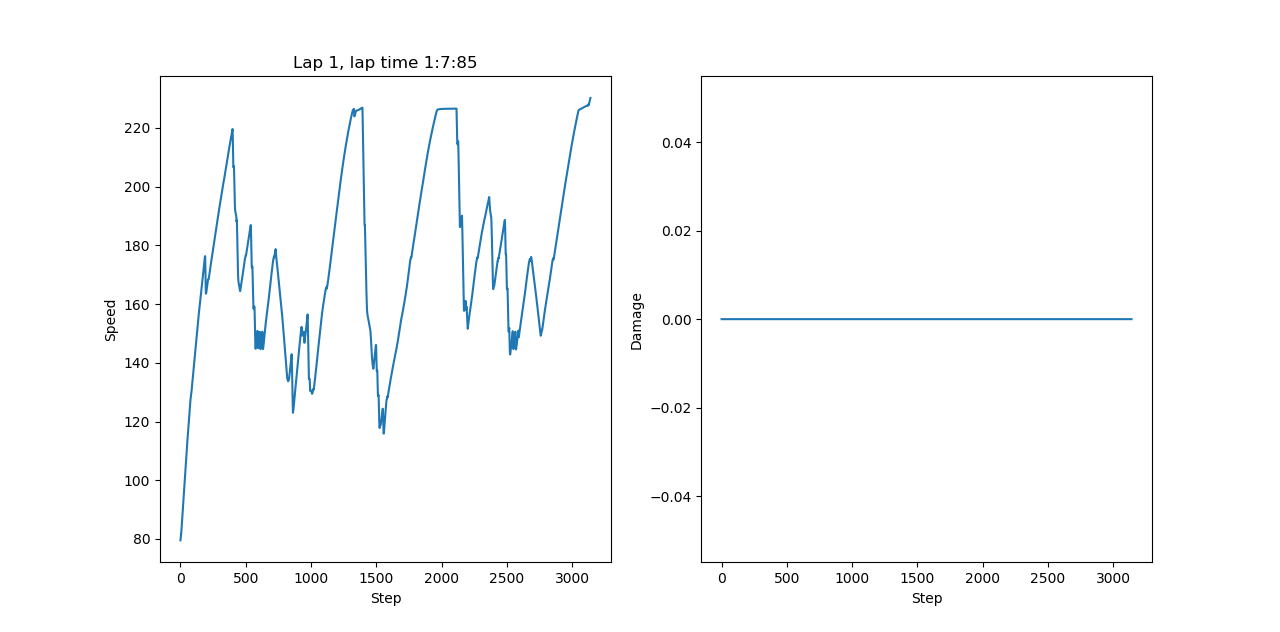
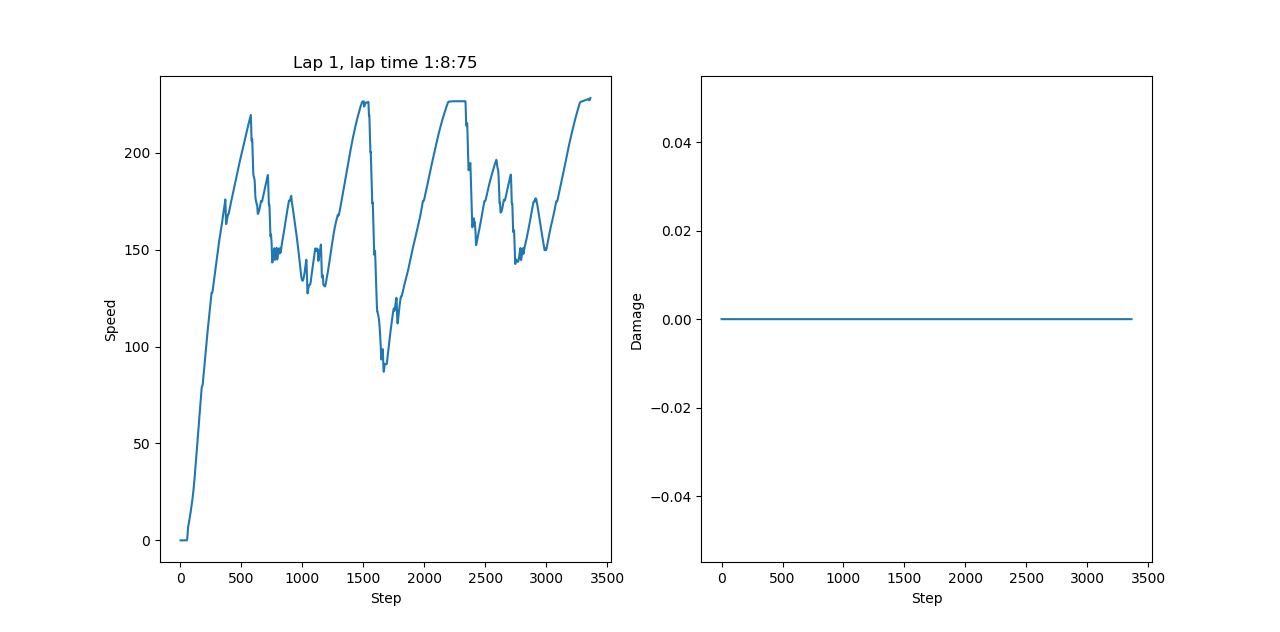
added new baseline fitness

diff --git a/PymooDE.py b/PymooDE.py
@@ -46,12 +46,12 @@ FORZA_LENGTH = 5784.10
 FORZA_WIDTH = 11.0
 WHEEL_LENGHT = 4328.54
 WHEEL_WIDTH = 14.0
-CG_1_LENGHT = 2057.56
-CG_1_WIDTH = 15.0
+CG_2_LENGHT = 2057.56
+CG_2_WIDTH = 15.0
 UPPER_BOUND_DAMAGE = 1500
 MAX_OUT_OF_TRACK_TICKS = 1000       # corresponds to 20 sec
 
-SAVE_CHECKPOINT = False
+SAVE_CHECKPOINT = True
 
 # list of track names
 track_names = []
@@ -300,8 +300,8 @@ if __name__ == "__main__":
     
     track_names = take_track_names(args)
 
-    np_seed = 123
-    de_seed = 123
+    np_seed = 1
+    de_seed = 124
     # set the np seed
     np.random.seed(np_seed)
 
@@ -334,7 +334,7 @@ if __name__ == "__main__":
     # Cross-over rate
     cr = 0.7
     # Scaling factor F
-    f = 0.5
+    f = 0.9
 
     PARAMETERS_STRING = f"{np_seed}_{de_seed}_{n_pop}_{max_gens}_{n_vars}_{cr}_{f}_{PERCENTAGE_OF_VARIATION}"
 
@@ -413,10 +413,10 @@ if __name__ == "__main__":
     with open(file_name, 'w') as outfile:
         json.dump(parameters, outfile)
     """
-    #controller = custom_controller.CustomController(stage=2, track='forza')
-    controller = custom_controller.CustomController(stage=3)
+    controller = custom_controller.CustomController(stage=2, track='cg_track_2')
+    #controller = custom_controller.CustomController(stage=3)
        
-    history_lap_time, history_speed, history_damage, history_distance_raced, history_track_pos, ticks = controller.run_controller()
+    history_lap_time, history_speed, history_damage, history_distance_raced, history_track_pos, ticks = controller.run_controller(plot_history=True)
     
     normalized_ticks = ticks/controller.C.maxSteps
 
@@ -435,7 +435,7 @@ if __name__ == "__main__":
         normalized_avg_speed = avg_speed/MAX_SPEED
     
         distance_raced = history_distance_raced[num_laps][-1]
-        normalized_distance_raced = distance_raced/(FORZA_LENGTH*EXPECTED_NUM_LAPS)
+        normalized_distance_raced = distance_raced/(CG_2_LENGHT*EXPECTED_NUM_LAPS)
     
         # take the damage
         damage = history_damage[num_laps][-1]
